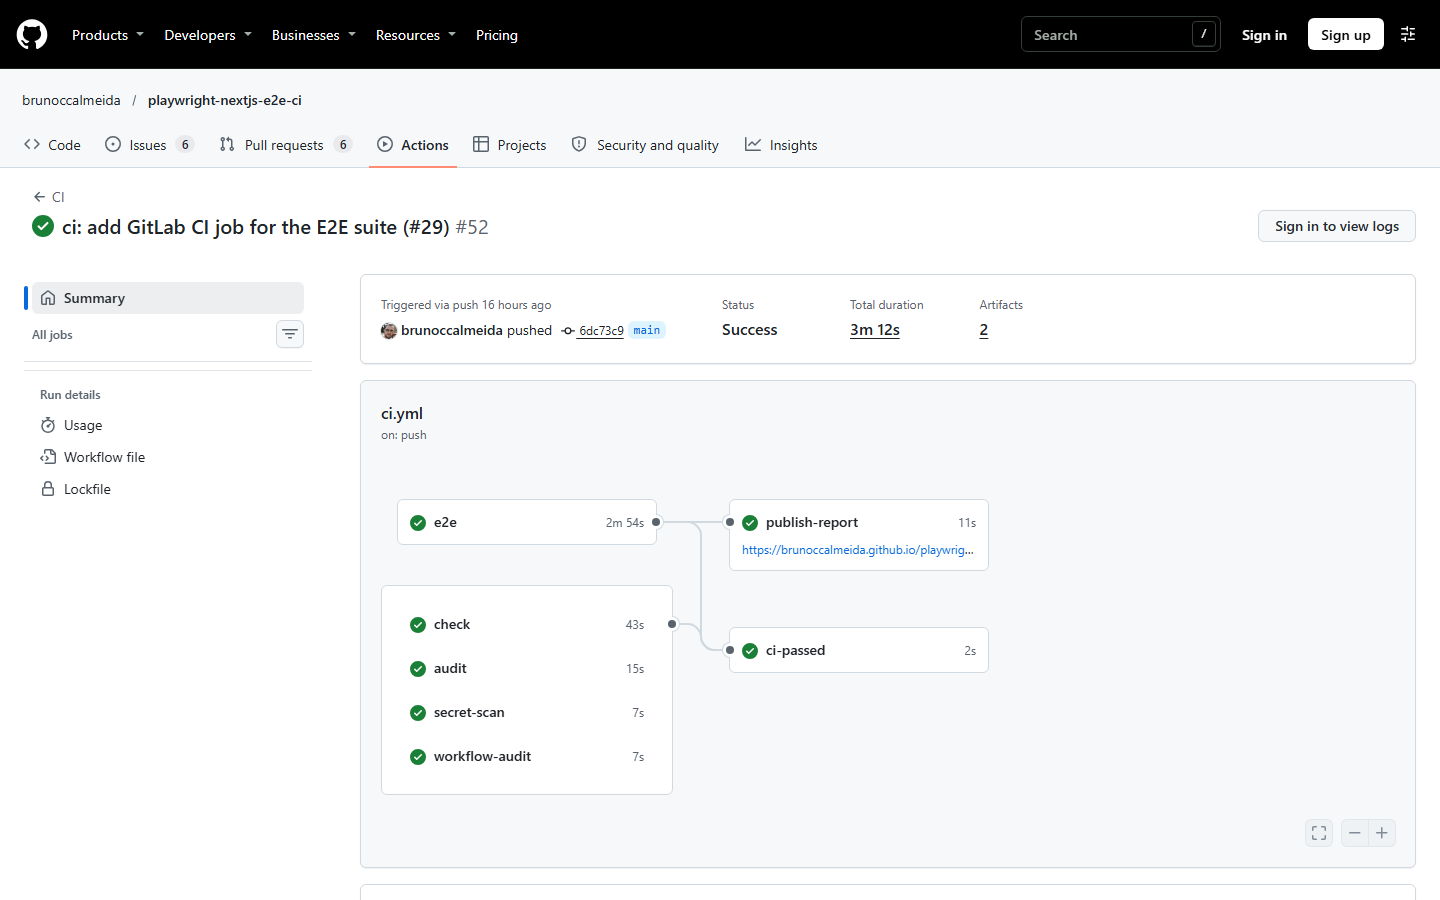
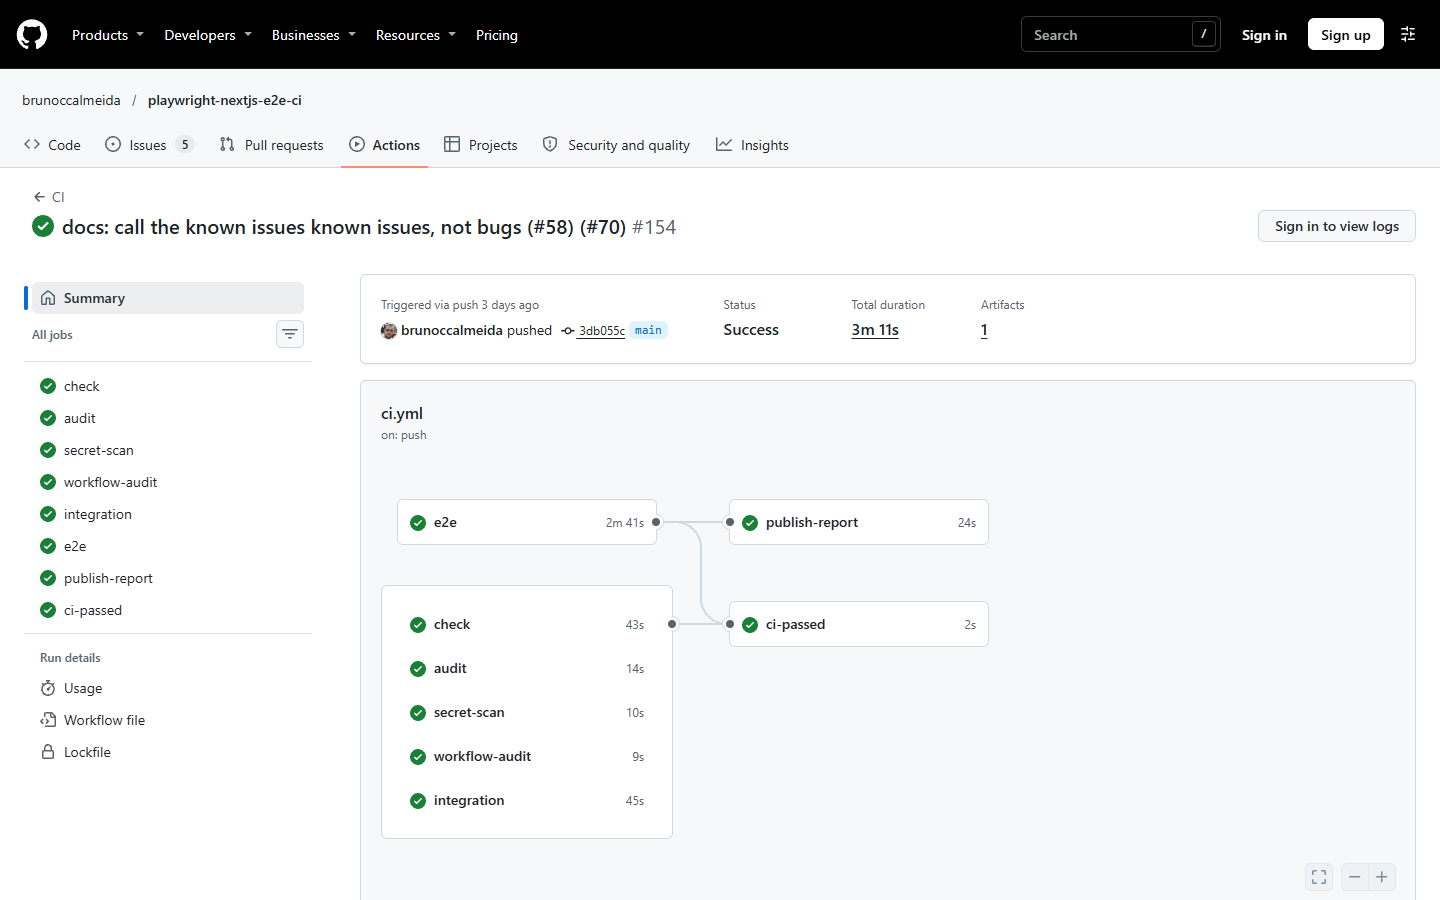
docs(readme): show the 6-job pipeline in the screenshot and pinned runs (#64) (#75)
## Why

#44 added the `integration` job to the `ci-passed` gate, so the pipeline
has 6 gated jobs. #72 already moved the At a Glance "Pipeline" row to a
6-job run. Other parts of both READMEs still showed the 5-job pipeline:
the GitHub screenshot and its alt text, the row listing the gated jobs,
and a second pinned run.

## What

- `docs/images/pipeline-github.png` now shows [run
45518041628](https://github.com/brunoccalmeida/playwright-nextjs-e2e-ci/actions/runs/45518041628).
That is the push run at `3db055c` on `main`, 3m 11s, with `check`,
`audit`, `secret-scan`, `workflow-audit`, `integration` and `e2e`
leading to `ci-passed`, and `e2e` leading to `publish-report`. The
"Pipeline" row already pins this run. The screenshot was taken the same
way as the old one: logged out, 1440x900, light theme, with headless
Chrome through the Chrome DevTools MCP.
- The alt text in both READMEs names that commit and all the jobs.
- The "CI that blocks bad merges" row now lists integration tests.
- The "GitHub Actions or GitLab CI" row linked run 42553516022. The
Actions API shows it is the 5-job push run at `6dc73c9`, from
2026-11-09. The row now links the same run as the others, so the READMEs
pin one GitHub run, created 2026-11-25. With the default 90-day
retention, its logs expire around 2027-02-23. The session summary
records that date.
- The session summary moves to the next mission: #67 together with #68.

## How it was checked
[…]

diff --git a/docs/PROJECT_SESSION_SUMMARY.md b/docs/PROJECT_SESSION_SUMMARY.md
@@ -10,9 +10,9 @@ Desde a #53, este arquivo guarda só o estado e a próxima missão; o registro d
 
 | Item             | Estado                                                                                                                                                                   |
 | ---------------- | ------------------------------------------------------------------------------------------------------------------------------------------------------------------------ |
-| Missão atual     | #60 concluída: o KI-9 e o defeito do botão de seed, medidos de novo na Payload 3.94.2, foram enviados ao upstream (comentário em payloadcms/payload#11177 e o report payloadcms/payload#20019, com a reprodução pública `brunoccalmeida/payload-website-seed-race`); o app não mudou |
+| Missão atual     | #64 concluída: `docs/images/pipeline-github.png` e o texto alternativo dos dois READMEs mostram a execução em `3db055c` (6 jobs no gate, mais `publish-report`), a mesma da linha "Pipeline"; a linha "GitHub Actions ou GitLab CI" também passou a apontar para ela, e a linha "CI que barra merges ruins" agora cita os testes de integração |
 | Exceções do audit | Vencem em 18/12/2026: `happy-dom` (#20) e picomatch (#55). Ao vencer, `pnpm check` reprova: rever o advisory e a issue, renovar a data (até 30 dias) ou remover a entrada |
-| Próxima missão   | #64 (P2; refazer screenshot e execução fixada do README com os 6 jobs); depois #67 (`engines.pnpm` promete pnpm 9 e 10), #68 (README manda `corepack enable`, mas o Node 25+ não traz Corepack; vale fazer junto com a #67) e #71 (sentinela do número de jobs do pipeline no README). A #20 segue bloqueada até uma Payload com Lexical >= 0.53.0 (em 24/11/2026, a 3.94.2 ainda fixa 0.50.0) |
+| Próxima missão   | #67 (P2; `engines.pnpm` promete pnpm 9 e 10), junto com a #68 (README manda `corepack enable`, mas o Node 25+ não traz Corepack); depois #71 (sentinela do número de jobs do pipeline no README). A #20 segue bloqueada até uma Payload com Lexical >= 0.53.0 (em 24/11/2026, a 3.94.2 ainda fixa 0.50.0) |
 | PRs abertos      | Nenhum. Próxima rodada do Dependabot: Payload 3.94.x, que já cabe no Node 26.13.1 fixado pela #51 |
 | Node local       | `engineStrict` recusa instalar com Node diferente da faixa: cada troca do `.node-version` exige atualizar o Node da máquina antes (aqui, `winget upgrade --id OpenJS.NodeJS.LTS --version <x>`), senão `pnpm check` falha no `verifyDepsBeforeRun` |
 | Ambiente local   | `compose.yaml` com `postgres:18`, env validado com zod, migration inicial e seed via Local API; passos no README                                                         |
@@ -21,7 +21,7 @@ Desde a #53, este arquivo guarda só o estado e a próxima missão; o registro d
 | Plugin `mission` | `/mission:close-mission`, `/mission:ship-pr` e `mission:reviewer`, do marketplace `brunoccalmeida-plugins`, `autoUpdate: false`; cada clone instala uma vez (`/plugin install mission@brunoccalmeida-plugins`) e, se instalar pelo shell, roda `/reload-plugins` na sessão aberta |
 | Baseline         | 1º commit da `main` (`f0154df`): app gerado por `create-payload-app@3.93.0 -t website -d postgres`, intacto                                                               |
 | Testes           | 65 no build de produção: 4 do template e 61 próprios, em `api`, `admin`, `chromium`, `mobile` e `reduced-motion`, mais o `setup` de login (66 no relatório); 9 são `test.fail` (KI-1 a KI-9) |
-| Evidências       | `docs/images/report.png` é da execução em `9e7e146` (63, KI-1 a KI-8); para refazer, abrir `playwright-report/index.html` por `page.goto` com URL `file://` (a partir de `about:blank` o Chromium não carrega arquivos locais) |
+| Evidências       | `docs/images/report.png` é da execução em `9e7e146` (63, KI-1 a KI-8); para refazer, abrir `playwright-report/index.html` por `page.goto` com URL `file://` (a partir de `about:blank` o Chromium não carrega arquivos locais). `docs/images/pipeline-github.png` é da execução em `3db055c`: capturada sem login, 1440x900, tema claro, como a anterior; o log dessa execução expira por volta de 23/02/2027 (execução de 25/11/2026 UTC, retenção padrão de 90 dias) |
 | Upstream a acompanhar | payloadcms/payload#20019 (seed do template) e payloadcms/payload#11177 (KI-9): se o mantenedor aceitar, a #20019 oferece um PR com a correção medida, que está na branch `fix/seed-sequential` da reprodução; se uma release corrigir, atualizar o `docs/KNOWN_ISSUES.md` e, para o KI-9, o `test.fail` |
 | Armadilha local  | O KI-7 depende da primeira rota que inicializa a Payload; o `webServer.url` em `/admin` fixa essa ordem num servidor novo (#63), mas um servidor reusado (`reuseExistingServer` local) guarda a ordem de quem o acessou antes: medir sempre sem servidor no ar. Trocar o `url` ou a `baseURL` exige manter `/admin` |
 | Servidor em segundo plano | No Windows, parar a tarefa do `pnpm start` não mata o `node` filho, que segue ouvindo na porta 3000: conferir a porta e encerrar o processo pelo PID, confirmando a linha de comando antes |

diff --git a/README.pt-BR.md b/README.pt-BR.md
@@ -36,7 +36,7 @@ Este é um projeto pessoal de portfólio, não um trabalho para cliente.
 
 _Captura da execução de 63 testes em `9e7e146`, com KI-1 a KI-8: build de produção, banco novo._
 
-![Execução no GitHub Actions: check, audit, secret-scan, workflow-audit e e2e levando ao ci-passed](docs/images/pipeline-github.png)
+![Execução no GitHub Actions em `3db055c`: check, audit, secret-scan, workflow-audit, integration e e2e levando ao ci-passed, e e2e levando ao publish-report](docs/images/pipeline-github.png)
 
 ## Como isto atende a um briefing de cliente
 
@@ -47,8 +47,8 @@ _Captura da execução de 63 testes em `9e7e146`, com KI-1 a KI-8: build de prod
 | Verificação de acessibilidade                  | Varreduras axe até WCAG 2.2 AA nos dois temas de cor, e navegação só por teclado                                           | [`axe.ts`](tests/helpers/axe.ts), [`accessibility.spec.ts`](tests/e2e/accessibility.spec.ts), [`keyboard.spec.ts`](tests/e2e/keyboard.spec.ts)                                                                                                                                 |
 | Testes em que se pode confiar                  | Cada teste escrito aqui foi visto falhando, antes de o código de suporte existir ou por mutação; os commits registram como | Commits [`db83780`](https://github.com/brunoccalmeida/playwright-nextjs-e2e-ci/commit/db83780), [`ad6e89f`](https://github.com/brunoccalmeida/playwright-nextjs-e2e-ci/commit/ad6e89f), [`025581d`](https://github.com/brunoccalmeida/playwright-nextjs-e2e-ci/commit/025581d) |
 | Ambiente de teste repetível                    | Cada job `e2e` recebe um Postgres novo, migrations, dados de seed e segredos gerados por execução                          | [`ci.yml`](.github/workflows/ci.yml), [`scripts/seed.ts`](scripts/seed.ts)                                                                                                                                                                                                     |
-| CI que barra merges ruins                      | Tipos, lint, auditoria de dependências, varredura de segredos, auditoria de workflows e E2E atrás de um gate               | [Ruleset](https://github.com/brunoccalmeida/playwright-nextjs-e2e-ci/rules/26807974), [pull request barrado por um commit-sonda com falha](https://github.com/brunoccalmeida/playwright-nextjs-e2e-ci/pull/10)                                                                 |
-| GitHub Actions ou GitLab CI                    | Os dois rodaram de verdade; o GitHub é a fonte da verdade, o GitLab roda o job `e2e`                                       | [Execução no GitHub](https://github.com/brunoccalmeida/playwright-nextjs-e2e-ci/actions/runs/42553516022), [pipeline no GitLab](https://gitlab.com/brunoccalmeida1/playwright-nextjs-e2e-ci/-/pipelines/3043123721)                                                            |
+| CI que barra merges ruins                      | Tipos, lint, auditoria de dependências, varredura de segredos, auditoria de workflows, testes de integração e E2E atrás de um gate | [Ruleset](https://github.com/brunoccalmeida/playwright-nextjs-e2e-ci/rules/26807974), [pull request barrado por um commit-sonda com falha](https://github.com/brunoccalmeida/playwright-nextjs-e2e-ci/pull/10)                                                                 |
+| GitHub Actions ou GitLab CI                    | Os dois rodaram de verdade; o GitHub é a fonte da verdade, o GitLab roda o job `e2e`                                       | [Execução no GitHub](https://github.com/brunoccalmeida/playwright-nextjs-e2e-ci/actions/runs/45518041628), [pipeline no GitLab](https://gitlab.com/brunoccalmeida1/playwright-nextjs-e2e-ci/-/pipelines/3043123721)                                                            |
 | Relatórios legíveis quando algo quebra         | Relatório HTML público da `main`, e o relatório anexado a qualquer execução com teste reprovado                            | [Relatório](https://brunoccalmeida.github.io/playwright-nextjs-e2e-ci/), [pipeline do GitLab reprovada de propósito](https://gitlab.com/brunoccalmeida1/playwright-nextjs-e2e-ci/-/pipelines/3043130956)                                                                       |
 | Problemas relatados com clareza                | Observado, esperado, causa e impacto de cada um                                                                            | [Known issues](docs/KNOWN_ISSUES.md)                                                                                                                                                                                                                                           |
 

diff --git a/README.md b/README.md
@@ -34,7 +34,7 @@ This is a personal portfolio project, not client work.
 
 _Screenshot from the 63-test run at `9e7e146`, with KI-1 to KI-8: production build, fresh database._
 
-![GitHub Actions run: check, audit, secret-scan, workflow-audit and e2e leading to ci-passed](docs/images/pipeline-github.png)
+![GitHub Actions run at `3db055c`: check, audit, secret-scan, workflow-audit, integration and e2e leading to ci-passed, and e2e leading to publish-report](docs/images/pipeline-github.png)
 
 ## How this maps to a client brief
 
@@ -45,8 +45,8 @@ _Screenshot from the 63-test run at `9e7e146`, with KI-1 to KI-8: production bui
 | Accessibility checks                   | axe scans up to WCAG 2.2 AA in both color themes, and keyboard-only navigation                                  | [`axe.ts`](tests/helpers/axe.ts), [`accessibility.spec.ts`](tests/e2e/accessibility.spec.ts), [`keyboard.spec.ts`](tests/e2e/keyboard.spec.ts)                                                                                                                                 |
 | Tests that can be trusted              | Each test written here was seen failing, before its support code existed or by mutation; the commits record how | Commits [`db83780`](https://github.com/brunoccalmeida/playwright-nextjs-e2e-ci/commit/db83780), [`ad6e89f`](https://github.com/brunoccalmeida/playwright-nextjs-e2e-ci/commit/ad6e89f), [`025581d`](https://github.com/brunoccalmeida/playwright-nextjs-e2e-ci/commit/025581d) |
 | A repeatable test environment          | Each `e2e` job gets a new Postgres, migrations, seed data and its own generated secrets                         | [`ci.yml`](.github/workflows/ci.yml), [`scripts/seed.ts`](scripts/seed.ts)                                                                                                                                                                                                     |
-| CI that blocks bad merges              | Types, lint, dependency audit, secret scan, workflow audit and E2E behind one gate                              | [Ruleset](https://github.com/brunoccalmeida/playwright-nextjs-e2e-ci/rules/26807974), [pull request held back by a failing probe commit](https://github.com/brunoccalmeida/playwright-nextjs-e2e-ci/pull/10)                                                                   |
-| GitHub Actions or GitLab CI            | Both ran for real; GitHub is the source of truth, GitLab runs the `e2e` job                                     | [GitHub run](https://github.com/brunoccalmeida/playwright-nextjs-e2e-ci/actions/runs/42553516022), [GitLab pipeline](https://gitlab.com/brunoccalmeida1/playwright-nextjs-e2e-ci/-/pipelines/3043123721)                                                                       |
+| CI that blocks bad merges              | Types, lint, dependency audit, secret scan, workflow audit, integration tests and E2E behind one gate           | [Ruleset](https://github.com/brunoccalmeida/playwright-nextjs-e2e-ci/rules/26807974), [pull request held back by a failing probe commit](https://github.com/brunoccalmeida/playwright-nextjs-e2e-ci/pull/10)                                                                   |
+| GitHub Actions or GitLab CI            | Both ran for real; GitHub is the source of truth, GitLab runs the `e2e` job                                     | [GitHub run](https://github.com/brunoccalmeida/playwright-nextjs-e2e-ci/actions/runs/45518041628), [GitLab pipeline](https://gitlab.com/brunoccalmeida1/playwright-nextjs-e2e-ci/-/pipelines/3043123721)                                                                       |
 | Readable reports when something breaks | A public HTML report from `main`, and the report attached to any run whose tests fail                           | [Report](https://brunoccalmeida.github.io/playwright-nextjs-e2e-ci/), [deliberately failing GitLab pipeline](https://gitlab.com/brunoccalmeida1/playwright-nextjs-e2e-ci/-/pipelines/3043130956)                                                                               |
 | Issues reported clearly                | Observed, expected, cause and impact for each one                                                               | [Known issues](docs/KNOWN_ISSUES.md)                                                                                                                                                                                                                                           |
 
